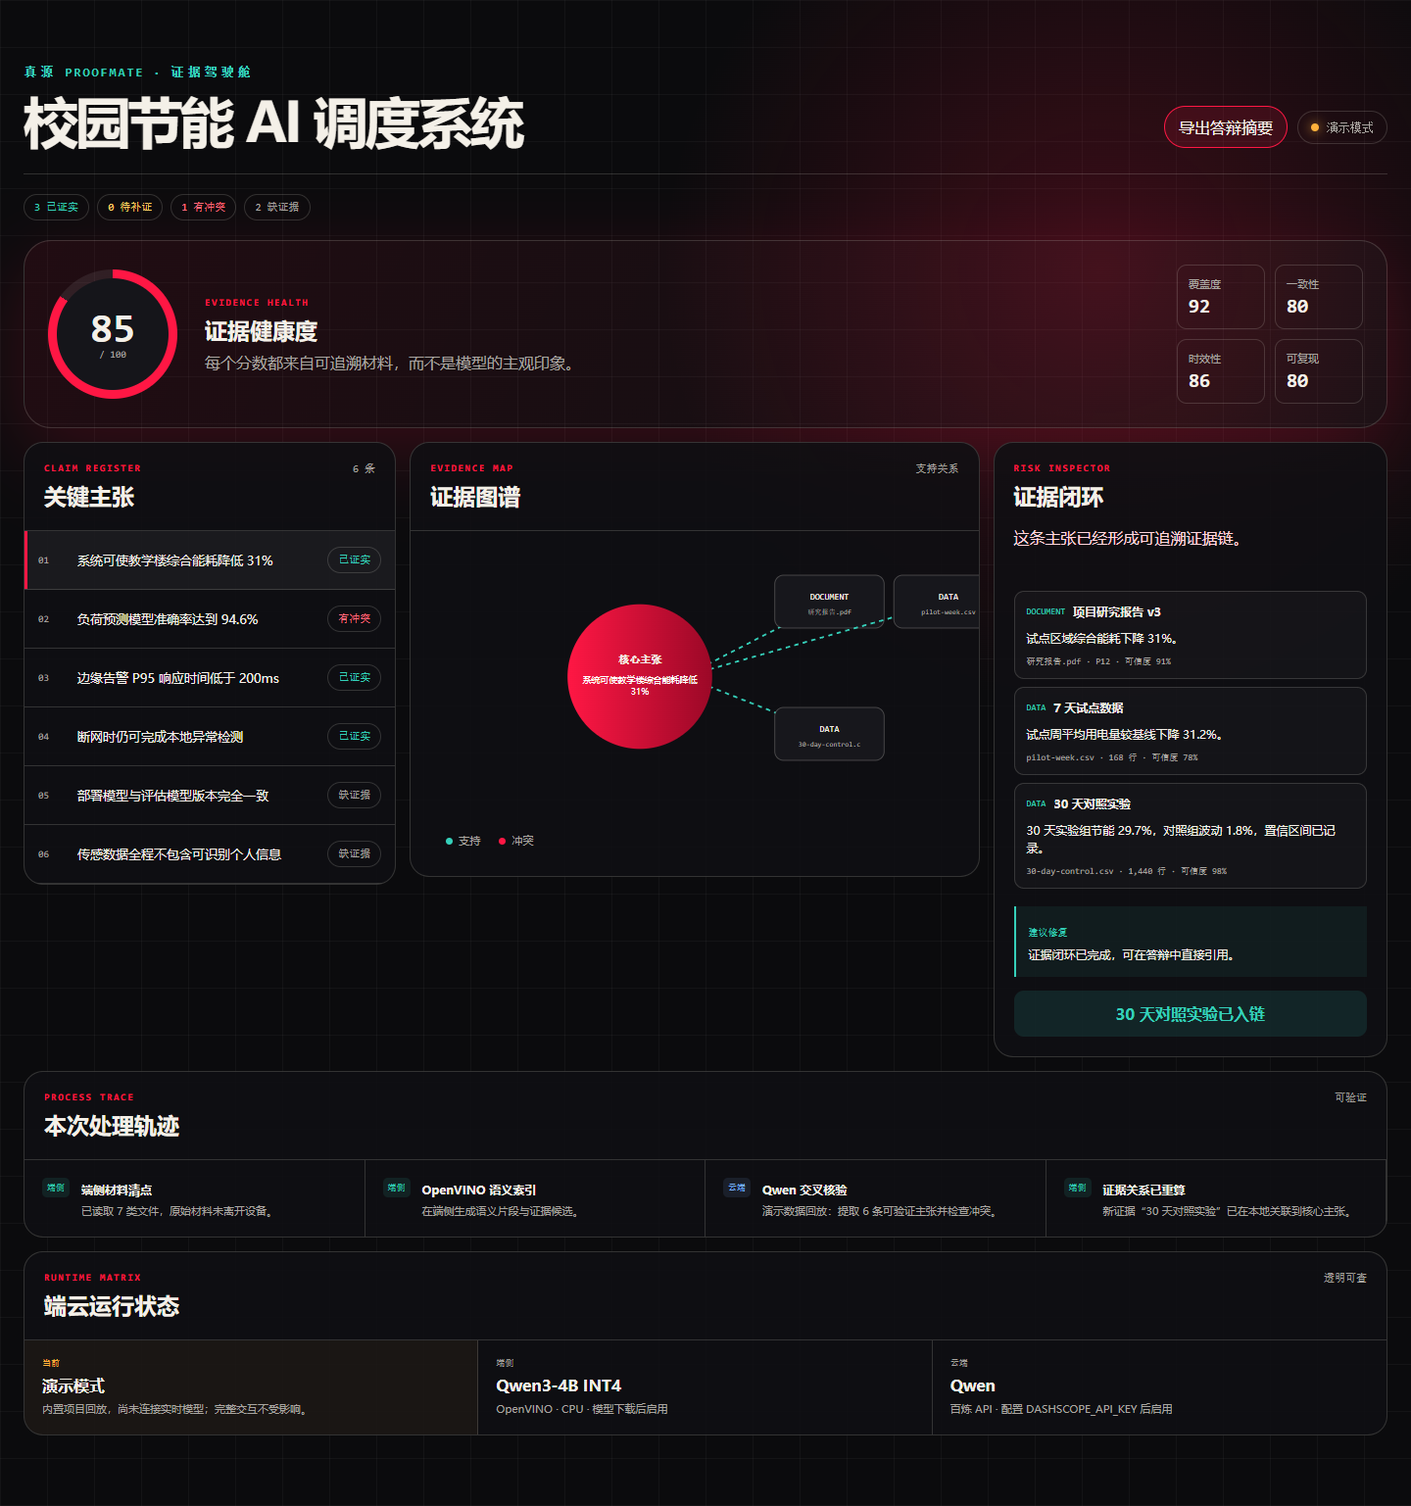
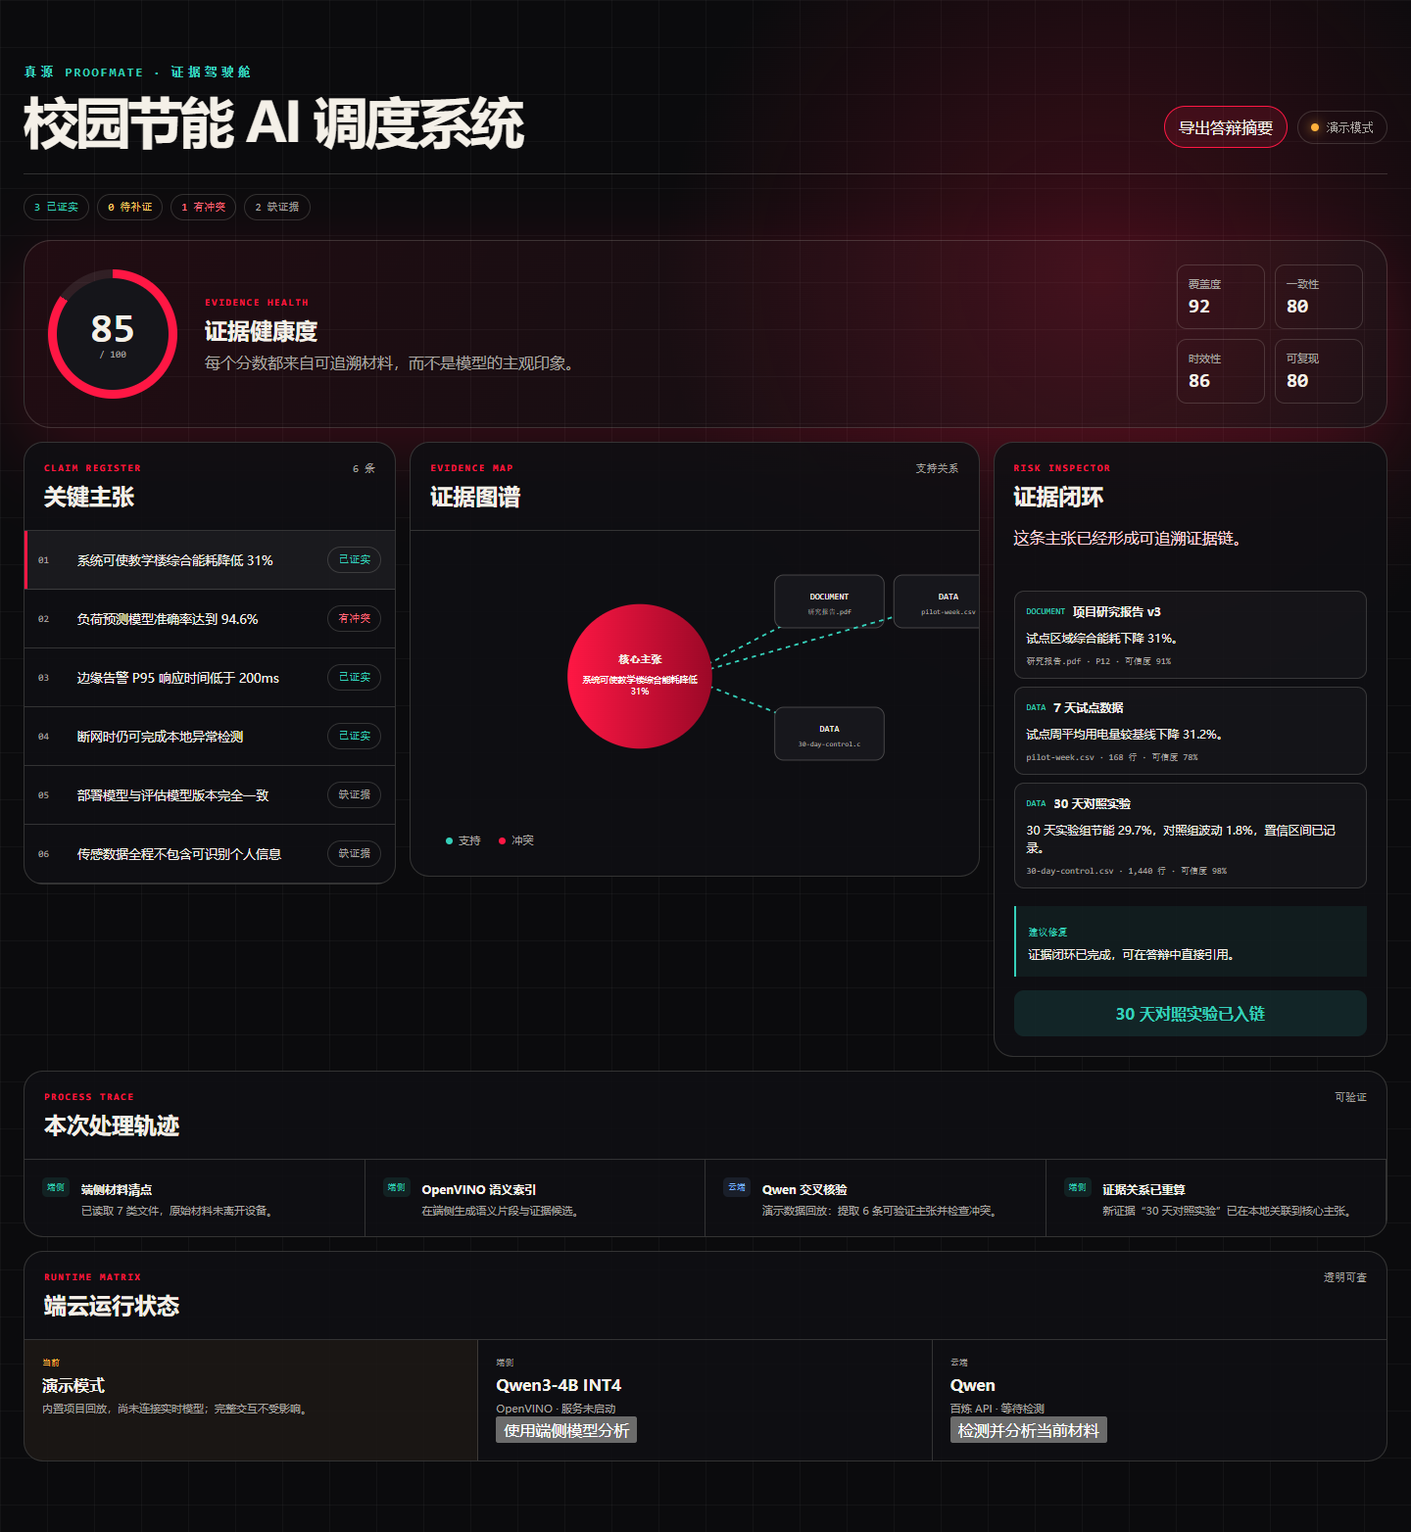
fix: connect real materials and model runtimes

diff --git a/src/features/settings/RuntimePanel.tsx b/src/features/settings/RuntimePanel.tsx
@@ -1,11 +1,38 @@
-export function RuntimePanel() {
+import { useEffect, useState } from 'react';
+
+export function RuntimePanel({ text, isDemo = false }: { text: string; isDemo?: boolean }) {
+  const [local, setLocal] = useState('正在探测端侧服务…');
+  const [cloud, setCloud] = useState('百炼 API · 等待检测');
+  const [busy, setBusy] = useState(false);
+  const [localBusy, setLocalBusy] = useState(false);
+  useEffect(() => {
+    fetch('/api/local/status').then((response) => response.json()).then((result) => {
+      setLocal(result.state === 'service_ready' ? `OpenVINO · ${result.model_state}` : 'OpenVINO · 服务未启动');
+    }).catch(() => setLocal('OpenVINO · 服务未启动'));
+  }, []);
+  const analyze = async () => {
+    setBusy(true);
+    try {
+      const response = await fetch('/api/qwen/analyze', { method: 'POST', headers: { 'Content-Type': 'application/json' }, body: JSON.stringify({ text }) });
+      const result = await response.json();
+      setCloud(result.state === 'provider_ready' ? `百炼 Qwen · 已核验 ${result.claims.length} 条主张` : result.state === 'provider_not_configured' ? '百炼 Qwen · 未配置 API Key' : `百炼 Qwen · ${result.state}`);
+    } catch { setCloud('百炼 Qwen · 服务连接失败'); } finally { setBusy(false); }
+  };
+  const analyzeLocal = async () => {
+    setLocalBusy(true);
+    try {
+      const response = await fetch('/api/local/analyze', { method: 'POST', headers: { 'Content-Type': 'application/json' }, body: JSON.stringify({ text }) });
+      const result = await response.json();
+      setLocal(result.state === 'service_ready' ? 'OpenVINO · 本地分析完成' : `OpenVINO · ${result.detail?.state ?? result.state}`);
+    } catch { setLocal('OpenVINO · 服务连接失败'); } finally { setLocalBusy(false); }
+  };
   return (
     <section className="runtime-panel" aria-labelledby="runtime-title">
       <div className="panel-heading"><div><p className="section-kicker">RUNTIME MATRIX</p><h2 id="runtime-title">端云运行状态</h2></div><span>透明可查</span></div>
       <div className="runtime-grid">
-        <article className="is-on"><span>当前</span><strong>演示模式</strong><p>内置项目回放，尚未连接实时模型；完整交互不受影响。</p></article>
-        <article><span>端侧</span><strong>Qwen3-4B INT4</strong><p>OpenVINO · CPU · 模型下载后启用</p></article>
-        <article><span>云端</span><strong>Qwen</strong><p>百炼 API · 配置 DASHSCOPE_API_KEY 后启用</p></article>
+        <article className="is-on"><span>当前</span><strong>{isDemo ? '演示模式' : '真实材料模式'}</strong><p>{isDemo ? '内置项目回放；可用下方按钮验证实时模型。' : '浏览器已读取真实材料；模型能力按需显式启用。'}</p></article>
+        <article><span>端侧</span><strong>Qwen3-4B INT4</strong><p>{local}</p><button type="button" onClick={analyzeLocal} disabled={localBusy}>{localBusy ? '分析中…' : '使用端侧模型分析'}</button></article>
+        <article><span>云端</span><strong>Qwen</strong><p>{cloud}</p><button type="button" onClick={analyze} disabled={busy}>{busy ? '核验中…' : '检测并分析当前材料'}</button></article>
       </div>
     </section>
   );

diff --git a/src/features/onboarding/buildImportedAudit.ts b/src/features/onboarding/buildImportedAudit.ts
@@ -1,0 +1,43 @@
+import { calculateAuditScore } from '../../domain/audit';
+import type { Claim, EvidenceItem, ProjectAudit } from '../../domain/types';
+
+const textExtensions = new Set(['md', 'txt', 'csv', 'json']);
+const excerpt = (value: string) => value.replace(/\s+/g, ' ').trim().slice(0, 180);
+
+export async function buildImportedAudit(files: File[]): Promise<ProjectAudit> {
+  const readable = files.filter((file) => textExtensions.has(file.name.split('.').pop()?.toLowerCase() ?? ''));
+  const contents = await Promise.all(readable.map(async (file) => ({ file, text: await file.text() })));
+  const evidence: EvidenceItem[] = files.map((file, index) => {
+    const text = contents.find((item) => item.file === file)?.text ?? '';
+    return {
+      id: `import-evidence-${index}`,
+      title: file.name,
+      kind: file.name.match(/\.(csv|json)$/i) ? 'data' : file.name.match(/\.(png|jpe?g|webp)$/i) ? 'image' : 'document',
+      excerpt: text ? excerpt(text) : '浏览器已完成文件清点；该格式需启用 Qwen 或端侧模型后解析内容。',
+      source: file.name,
+      confidence: text ? 0.72 : 0.35,
+    };
+  });
+  const statements = contents.flatMap(({ text }) => text.split(/[。！？\n]+/).map(excerpt).filter((line) => line.length >= 8)).slice(0, 6);
+  const claims: Claim[] = (statements.length ? statements : ['材料已接收，内容待模型解析']).map((statement, index) => ({
+    id: `import-claim-${index}`,
+    statement,
+    status: readable.length ? 'weak' : 'missing',
+    importance: index === 0 ? 'critical' : 'medium',
+    evidenceIds: evidence[index % evidence.length] ? [evidence[index % evidence.length].id] : [],
+    risk: readable.length ? '这是浏览器端抽取的候选主张，尚未经过模型交叉核验。' : '当前格式未在浏览器解读，不能声称已完成语义分析。',
+    repair: '启用端侧 OpenVINO 或百炼 Qwen 后执行语义核验，并补充来源页码与实验记录。',
+  }));
+  const dimensions = { coverage: readable.length ? 55 : 20, consistency: 45, freshness: 50, reproducibility: 35 };
+  return {
+    id: `import-${Date.now()}`,
+    name: `我的材料 · ${files.map((file) => file.name).join('、').slice(0, 48)}`,
+    dimensions,
+    score: calculateAuditScore(dimensions), claims, evidence,
+    trace: [
+      { stage: 'device', label: '真实文件清点', detail: `已在浏览器接收 ${files.length} 份材料。` },
+      { stage: 'device', label: '本地文本抽取', detail: `${readable.length} 份文本已读取；${files.length - readable.length} 份二进制材料未在浏览器解读。` },
+      { stage: 'cloud', label: '模型核验待命', detail: '当前仅展示真实本地抽取结果；配置运行时后可继续模型分析。' },
+    ],
+  };
+}

diff --git a/vite.config.ts b/vite.config.ts
@@ -1,4 +1,5 @@
 import { defineConfig } from 'vitest/config';
+import { loadEnv } from 'vite';
 import react from '@vitejs/plugin-react';
 import type { IncomingMessage } from 'node:http';
 import type { Plugin } from 'vite';
@@ -10,7 +11,7 @@ async function readJson(request: IncomingMessage): Promise<unknown> {
   return JSON.parse(Buffer.concat(chunks).toString('utf8'));
 }
 
-function qwenProxyPlugin(): Plugin {
+function qwenProxyPlugin(apiKey: string, model: string): Plugin {
   return {
     name: 'proofmate-qwen-proxy',
     configureServer(server) {
@@ -28,18 +29,36 @@ function qwenProxyPlugin(): Plugin {
             response.end(JSON.stringify({ state: 'invalid_request' }));
             return;
           }
-          response.end(JSON.stringify(await analyzeWithQwen({ text: body.text })));
+          response.end(JSON.stringify(await analyzeWithQwen({ text: body.text }, fetch, { apiKey, model })));
         } catch {
           response.statusCode = 400;
           response.end(JSON.stringify({ state: 'invalid_request' }));
         }
       });
+      server.middlewares.use('/api/local/status', async (_request, response) => {
+        response.setHeader('Content-Type', 'application/json; charset=utf-8');
+        try {
+          const upstream = await fetch('http://127.0.0.1:8787/health', { signal: AbortSignal.timeout(1500) });
+          response.end(await upstream.text());
+        } catch { response.end(JSON.stringify({ state: 'service_unavailable' })); }
+      });
+      server.middlewares.use('/api/local/analyze', async (request, response) => {
+        response.setHeader('Content-Type', 'application/json; charset=utf-8');
+        try {
+          const body = await readJson(request);
+          const upstream = await fetch('http://127.0.0.1:8787/v1/local/analyze', { method: 'POST', headers: { 'Content-Type': 'application/json' }, body: JSON.stringify(body), signal: AbortSignal.timeout(120000) });
+          response.statusCode = upstream.status;
+          response.end(await upstream.text());
+        } catch { response.statusCode = 503; response.end(JSON.stringify({ state: 'service_unavailable' })); }
+      });
     },
   };
 }
 
-export default defineConfig({
-  plugins: [react(), qwenProxyPlugin()],
+export default defineConfig(({ mode }) => {
+  const env = loadEnv(mode, process.cwd(), '');
+  return ({
+  plugins: [react(), qwenProxyPlugin(env.DASHSCOPE_API_KEY ?? '', env.QWEN_MODEL ?? 'qwen-plus')],
   server: {
     host: '127.0.0.1',
   },
@@ -50,4 +69,5 @@ export default defineConfig({
     globals: true,
     exclude: ['tests/e2e/**', 'node_modules/**', 'dist/**'],
   },
+  });
 });

diff --git a/src/features/onboarding/ScanSequence.tsx b/src/features/onboarding/ScanSequence.tsx
@@ -1,29 +1,35 @@
 import { useEffect, useState } from 'react';
 import { demoProject } from '../../data/demoProject';
 import type { ProjectAudit } from '../../domain/types';
+import { buildImportedAudit } from './buildImportedAudit';
 
-const stages = [
+const demoStages = [
   { label: '端侧材料清点', detail: '识别 12 份项目材料，原始文件不离开设备。', mode: 'DEVICE' },
   { label: '隐私边界检查', detail: '发现 2 处潜在个人信息，已在本地标记。', mode: 'PRIVATE' },
   { label: 'Qwen 证据映射', detail: '样例回放正在构建 6 条主张与 10 个证据节点。', mode: 'CLOUD' },
 ];
 
-export function ScanSequence({ onComplete }: { onComplete: (audit: ProjectAudit) => void }) {
+export function ScanSequence({ files, onComplete }: { files?: File[] | null; onComplete: (audit: ProjectAudit) => void }) {
   const [activeStage, setActiveStage] = useState(0);
+  const stages = files?.length ? [
+    { label: '端侧材料清点', detail: `已接收 ${files.length} 份真实材料，原始文件不离开浏览器。`, mode: 'DEVICE' },
+    { label: '本地内容抽取', detail: '读取文本类材料；PDF 与图片仅清点，不伪造识别结果。', mode: 'PRIVATE' },
+    { label: '模型核验待命', detail: '先生成本地候选；进入驾驶舱后可检测 Qwen / OpenVINO。', mode: 'READY' },
+  ] : demoStages;
 
   useEffect(() => {
     const timers = [
       window.setTimeout(() => setActiveStage(1), 800),
       window.setTimeout(() => setActiveStage(2), 1600),
-      window.setTimeout(() => onComplete(demoProject), 2400),
+      window.setTimeout(() => { void (files?.length ? buildImportedAudit(files).then(onComplete) : Promise.resolve(onComplete(demoProject))); }, 2400),
     ];
     return () => timers.forEach(window.clearTimeout);
-  }, [onComplete]);
+  }, [files, onComplete]);
 
   return (
     <main className="scan-shell">
       <header className="scan-header">
-        <p className="eyebrow">样例分析回放 · DEMO REPLAY</p>
+        <p className="eyebrow">{files?.length ? '真实材料 · LOCAL FIRST' : '样例分析回放 · DEMO REPLAY'}</p>
         <h1>正在重建项目的证据链</h1>
         <p>端侧先处理隐私与索引，必要片段再进入云端推理。</p>
       </header>

diff --git a/src/features/audit/AuditDashboard.tsx b/src/features/audit/AuditDashboard.tsx
@@ -16,6 +16,7 @@ export function AuditDashboard({ initialAudit }: { initialAudit: ProjectAudit })
   const counts = getRiskCounts(audit);
   const selected = useMemo(() => audit.claims.find((item) => item.id === selectedId) ?? audit.claims[0], [audit, selectedId]);
   const repaired = audit.evidence.some((item) => item.id === demoEvidence.id);
+  const isDemo = audit.id === 'campus-energy-audit';
   const repair = () => {
     setAudit((current) => linkEvidence(current, 'claim-energy', demoEvidence));
     setSelectedId('claim-energy');
@@ -25,7 +26,7 @@ export function AuditDashboard({ initialAudit }: { initialAudit: ProjectAudit })
     <main className="cockpit">
       <header className="cockpit-header">
         <div><p className="eyebrow">真源 PROOFMATE · 证据驾驶舱</p><h1>{audit.name}</h1></div>
-        <div className="header-actions"><button type="button" onClick={() => downloadMarkdownReport(audit)}>导出答辩摘要</button><div className="runtime-badge"><span />演示模式</div></div>
+        <div className="header-actions"><button type="button" onClick={() => downloadMarkdownReport(audit)}>导出答辩摘要</button><div className="runtime-badge"><span />{isDemo ? '演示模式' : '真实材料 · 本地抽取'}</div></div>
       </header>
       <nav className="risk-summary" aria-label="主张状态汇总">
         <span className="verified">{counts.verified} 已证实</span><span className="weak">{counts.weak} 待补证</span><span className="conflict">{counts.conflict} 有冲突</span><span className="missing">{counts.missing} 缺证据</span>
@@ -37,7 +38,7 @@ export function AuditDashboard({ initialAudit }: { initialAudit: ProjectAudit })
         <RiskInspector claim={selected} evidence={audit.evidence} repaired={repaired} onRepair={repair} />
       </div>
       <ProcessingTrace items={audit.trace} />
-      <RuntimePanel />
+      <RuntimePanel isDemo={isDemo} text={audit.evidence.map((item) => `${item.source}: ${item.excerpt}`).join('\n').slice(0, 12000)} />
     </main>
   );
 }

diff --git a/src/App.tsx b/src/App.tsx
@@ -7,12 +7,13 @@ import { AuditDashboard } from './features/audit/AuditDashboard';
 export function App() {
   const [view, setView] = useState<'landing' | 'scan' | 'ready'>('landing');
   const [audit, setAudit] = useState<ProjectAudit | null>(null);
+  const [files, setFiles] = useState<File[] | null>(null);
   const finishScan = useCallback((result: ProjectAudit) => {
     setAudit(result);
     setView('ready');
   }, []);
 
-  if (view === 'scan') return <ScanSequence onComplete={finishScan} />;
+  if (view === 'scan') return <ScanSequence files={files} onComplete={finishScan} />;
 
   if (view === 'ready' && audit) {
     return <AuditDashboard initialAudit={audit} />;
@@ -28,10 +29,10 @@ export function App() {
           把论文、代码、数据和截图变成一张可追溯的证据图谱，提前发现答辩里的每一个薄弱环节。
         </p>
         <div className="hero-actions">
-          <button type="button" onClick={() => setView('scan')}>体验示例项目</button>
+          <button type="button" onClick={() => { setFiles(null); setView('scan'); }}>体验示例项目</button>
           <span>无需登录 · 无需 API Key · 90 秒看懂</span>
         </div>
-        <FileDropzone onFilesAccepted={() => setView('scan')} />
+        <FileDropzone onFilesAccepted={(accepted) => { setFiles(accepted); setView('scan'); }} />
       </section>
     </main>
   );

diff --git a/src/features/audit/RiskInspector.tsx b/src/features/audit/RiskInspector.tsx
@@ -11,7 +11,7 @@ export function RiskInspector({ claim, evidence, repaired, onRepair }: { claim: 
         {sources.map((item) => <article key={item.id}><header><span>{item.kind}</span><strong>{item.title}</strong></header><blockquote>{item.excerpt}</blockquote><footer>{item.source} · 可信度 {Math.round(item.confidence * 100)}%</footer></article>)}
       </div>
       <div className="repair-box"><span>建议修复</span><p>{claim.repair}</p></div>
-      <button className="repair-action" type="button" onClick={onRepair} disabled={repaired}>{repaired ? '30 天对照实验已入链' : '补充 30 天对照实验'}</button>
+      {claim.id === 'claim-energy' ? <button className="repair-action" type="button" onClick={onRepair} disabled={repaired}>{repaired ? '30 天对照实验已入链' : '补充 30 天对照实验'}</button> : <button className="repair-action" type="button" disabled>请按建议上传对应材料</button>}
     </section>
   );
 }

diff --git a/src/features/onboarding/buildImportedAudit.test.ts b/src/features/onboarding/buildImportedAudit.test.ts
@@ -1,0 +1,16 @@
+import { buildImportedAudit } from './buildImportedAudit';
+
+it('builds an audit from the actual selected text file', async () => {
+  const file = new File(['实验结果显示能耗下降 18%。\n需要补充 30 天对照实验。'], 'result.md', { type: 'text/markdown' });
+  const audit = await buildImportedAudit([file]);
+  expect(audit.name).toContain('result.md');
+  expect(audit.evidence[0].source).toBe('result.md');
+  expect(audit.claims[0].statement).toContain('能耗下降');
+  expect(audit.trace[0].detail).toContain('1 份');
+});
+
+it('labels binary-only input without pretending to read its contents', async () => {
+  const audit = await buildImportedAudit([new File(['binary'], 'photo.png', { type: 'image/png' })]);
+  expect(audit.claims[0].statement).toContain('待模型解析');
+  expect(audit.trace.some((item) => item.detail.includes('未在浏览器解读'))).toBe(true);
+});

diff --git a/src/features/settings/RuntimePanel.test.tsx b/src/features/settings/RuntimePanel.test.tsx
@@ -2,8 +2,8 @@ import { render, screen } from '@testing-library/react';
 import { RuntimePanel } from './RuntimePanel';
 
 it('states demo limitations without presenting a fake live call', () => {
-  render(<RuntimePanel />);
+  render(<RuntimePanel text="测试材料" isDemo />);
   expect(screen.getByText('演示模式')).toBeVisible();
-  expect(screen.getByText(/尚未连接实时模型/)).toBeVisible();
+  expect(screen.getByRole('button', { name: '检测并分析当前材料' })).toBeVisible();
   expect(screen.getByText('Qwen3-4B INT4')).toBeVisible();
 });

diff --git a/local-ai/tests/test_api.py b/local-ai/tests/test_api.py
@@ -16,7 +16,7 @@ class MissingRuntime:
     def analyze(self, text):
         raise FileNotFoundError("model path not found")
 
-    def embed(self, text):
+    def fingerprint(self, text):
         raise FileNotFoundError("model path not found")
 
 
@@ -27,7 +27,7 @@ class ReadyRuntime(MissingRuntime):
     def analyze(self, text):
         return {"summary": text[:20], "signals": ["local-semantic-pass"]}
 
-    def embed(self, text):
+    def fingerprint(self, text):
         return [0.1, 0.2, 0.3]
 
 
@@ -54,10 +54,10 @@ def test_analyze_rejects_empty_text():
     assert response.status_code == 422
 
 
-def test_ready_runtime_returns_local_analysis_and_embedding():
+def test_ready_runtime_returns_local_analysis_and_fingerprint():
     client = TestClient(create_app(ReadyRuntime()))
     assert client.post("/v1/local/analyze", json={"text": "可验证的项目主张"}).json()["state"] == "service_ready"
-    assert client.post("/v1/local/embed", json={"text": "证据"}).json()["vector"] == [0.1, 0.2, 0.3]
+    assert client.post("/v1/local/fingerprint", json={"text": "证据"}).json()["fingerprint"] == [0.1, 0.2, 0.3]
 
 
 def test_inference_failure_is_distinct_from_missing_model():

diff --git a/local-ai/app/main.py b/local-ai/app/main.py
@@ -9,7 +9,7 @@ from .model_runtime import ModelRuntime
 class Runtime(Protocol):
     def status(self) -> dict[str, Any]: ...
     def analyze(self, text: str) -> dict[str, Any]: ...
-    def embed(self, text: str) -> list[float]: ...
+    def fingerprint(self, text: str) -> list[float]: ...
 
 
 class TextRequest(BaseModel):
@@ -44,10 +44,10 @@ def create_app(runtime: Runtime | None = None) -> FastAPI:
         except Exception as exc:
             raise HTTPException(status_code=503, detail={"state": "inference_failed", "message": str(exc)}) from exc
 
-    @app.post("/v1/local/embed")
-    def embed(request: TextRequest) -> dict[str, Any]:
+    @app.post("/v1/local/fingerprint")
+    def fingerprint(request: TextRequest) -> dict[str, Any]:
         try:
-            return {"state": "service_ready", "vector": model_runtime.embed(request.text)}
+            return {"state": "service_ready", "fingerprint": model_runtime.fingerprint(request.text)}
         except FileNotFoundError as exc:
             raise HTTPException(status_code=503, detail={"state": "model_unavailable", "message": str(exc)}) from exc
         except Exception as exc:

diff --git a/local-ai/app/model_runtime.py b/local-ai/app/model_runtime.py
@@ -50,8 +50,7 @@ class ModelRuntime:
         output = pipeline.generate(prompt, max_new_tokens=220)
         return {"summary": str(output), "signals": ["openvino-local-inference"]}
 
-    def embed(self, text: str) -> list[float]:
-        # A deterministic privacy-preserving fingerprint for local indexing.
-        # The generative OpenVINO model remains responsible for semantic analysis.
+    def fingerprint(self, text: str) -> list[float]:
+        # Deterministic content fingerprint for deduplication, not a semantic embedding.
         digest = hashlib.sha256(text.encode("utf-8")).digest()
         return [round((byte / 127.5) - 1, 6) for byte in digest]
